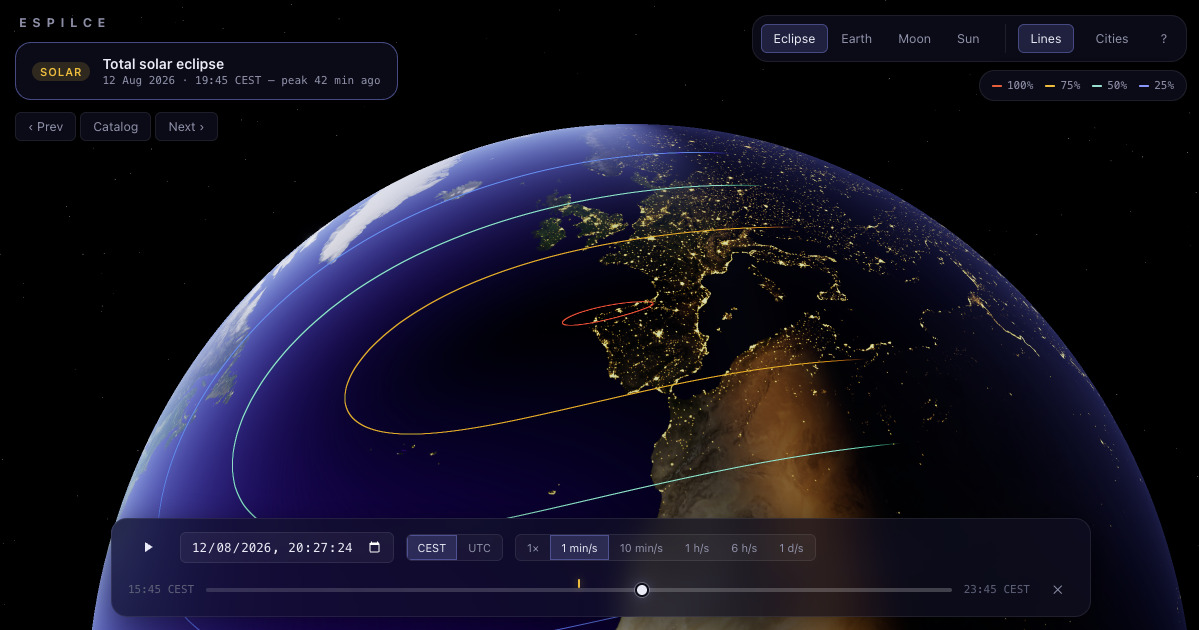
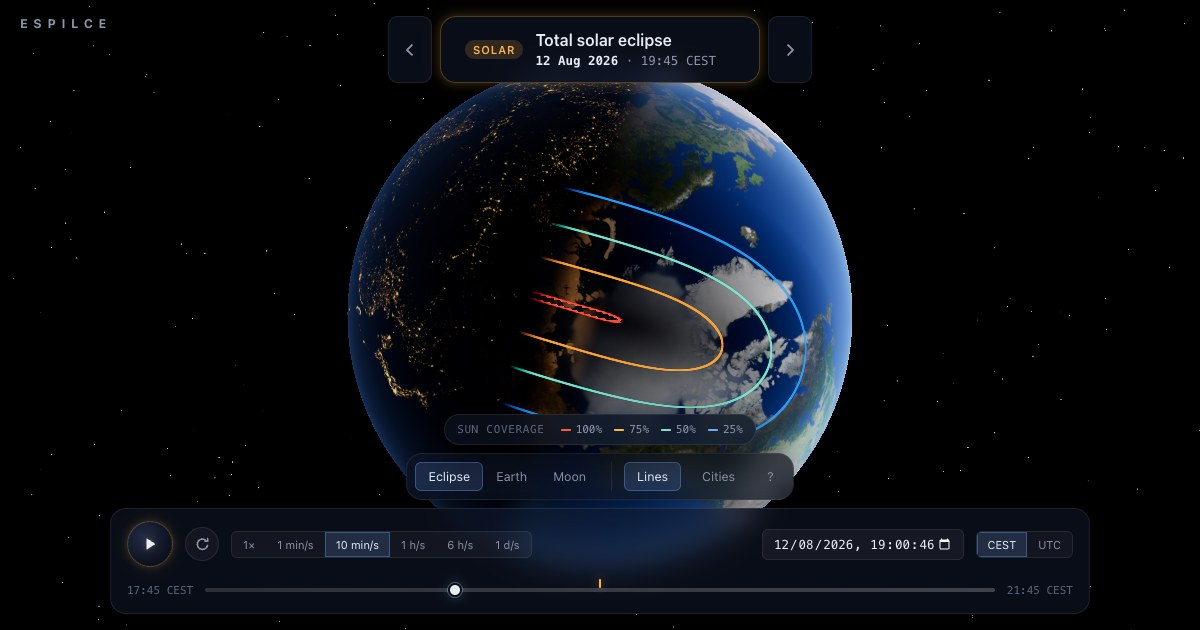
fix metadata image

diff --git a/index.html b/index.html
@@ -11,20 +11,22 @@
     <title>Espilce — 3D Eclipse Viewer</title>
 
     <!-- Link previews (Open Graph / Twitter). Image spec: 1200x630 (1.91:1),
-         replace public/og.jpg to change it. URLs must stay ABSOLUTE. -->
+         replace public/og.jpg to change it. URLs must stay ABSOLUTE, and bump
+         the ?v= query on every image change — social scrapers cache the
+         unfurl by URL for days. -->
     <meta property="og:type" content="website" />
     <meta property="og:site_name" content="Espilce" />
     <meta property="og:url" content="https://larprad.github.io/espilce/" />
     <meta property="og:title" content="Espilce — 3D Eclipse Viewer" />
     <meta property="og:description" content="Scrub 150 years of real solar and lunar eclipses in 3D. Watch the Moon's shadow sweep the Earth, city by city." />
-    <meta property="og:image" content="https://larprad.github.io/espilce/og.jpg" />
+    <meta property="og:image" content="https://larprad.github.io/espilce/og.jpg?v=2" />
     <meta property="og:image:width" content="1200" />
     <meta property="og:image:height" content="630" />
-    <meta property="og:image:alt" content="The Moon crossing the Sun during a total solar eclipse, rendered in Espilce" />
+    <meta property="og:image:alt" content="The Moon's shadow sweeping across Earth during the 12 August 2026 total solar eclipse, rendered in Espilce" />
     <meta name="twitter:card" content="summary_large_image" />
     <meta name="twitter:title" content="Espilce — 3D Eclipse Viewer" />
     <meta name="twitter:description" content="Scrub 150 years of real solar and lunar eclipses in 3D. Watch the Moon's shadow sweep the Earth, city by city." />
-    <meta name="twitter:image" content="https://larprad.github.io/espilce/og.jpg" />
+    <meta name="twitter:image" content="https://larprad.github.io/espilce/og.jpg?v=2" />
   </head>
   <body>
     <div id="root"></div>
